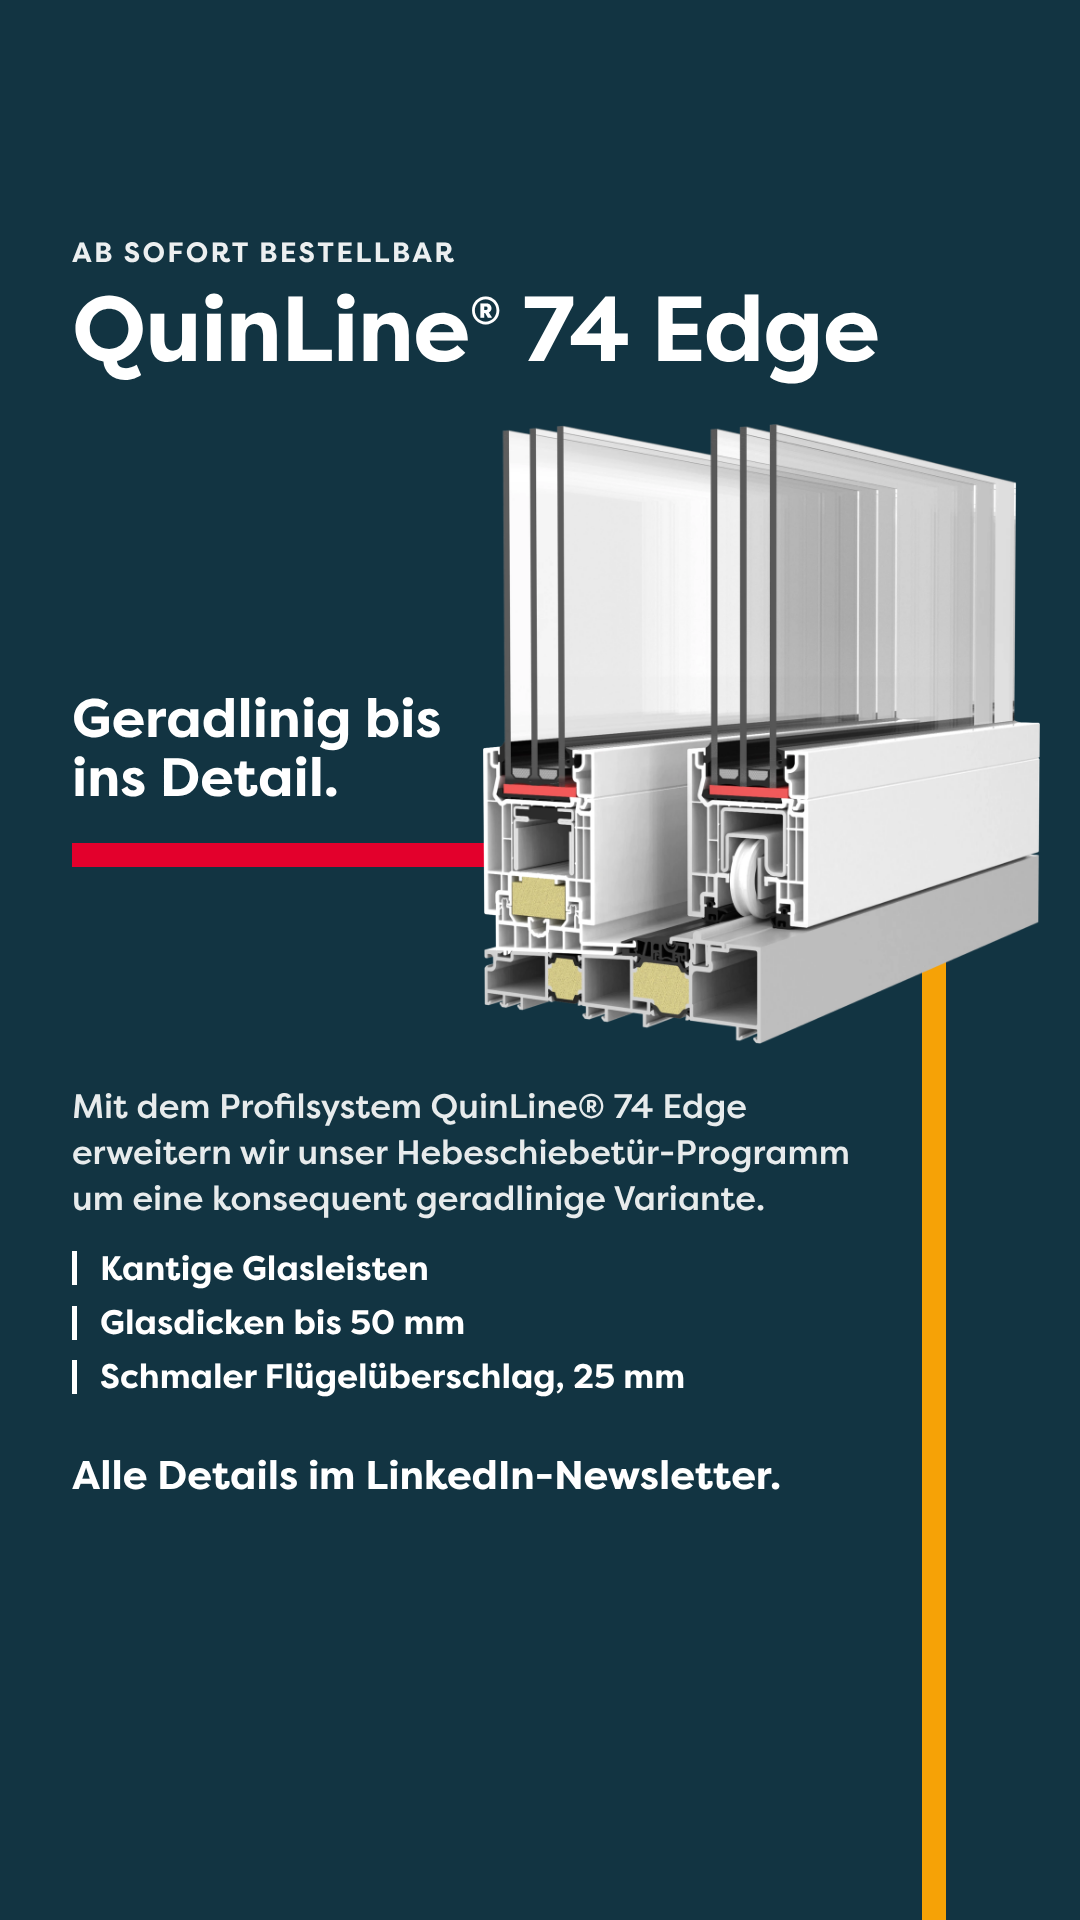
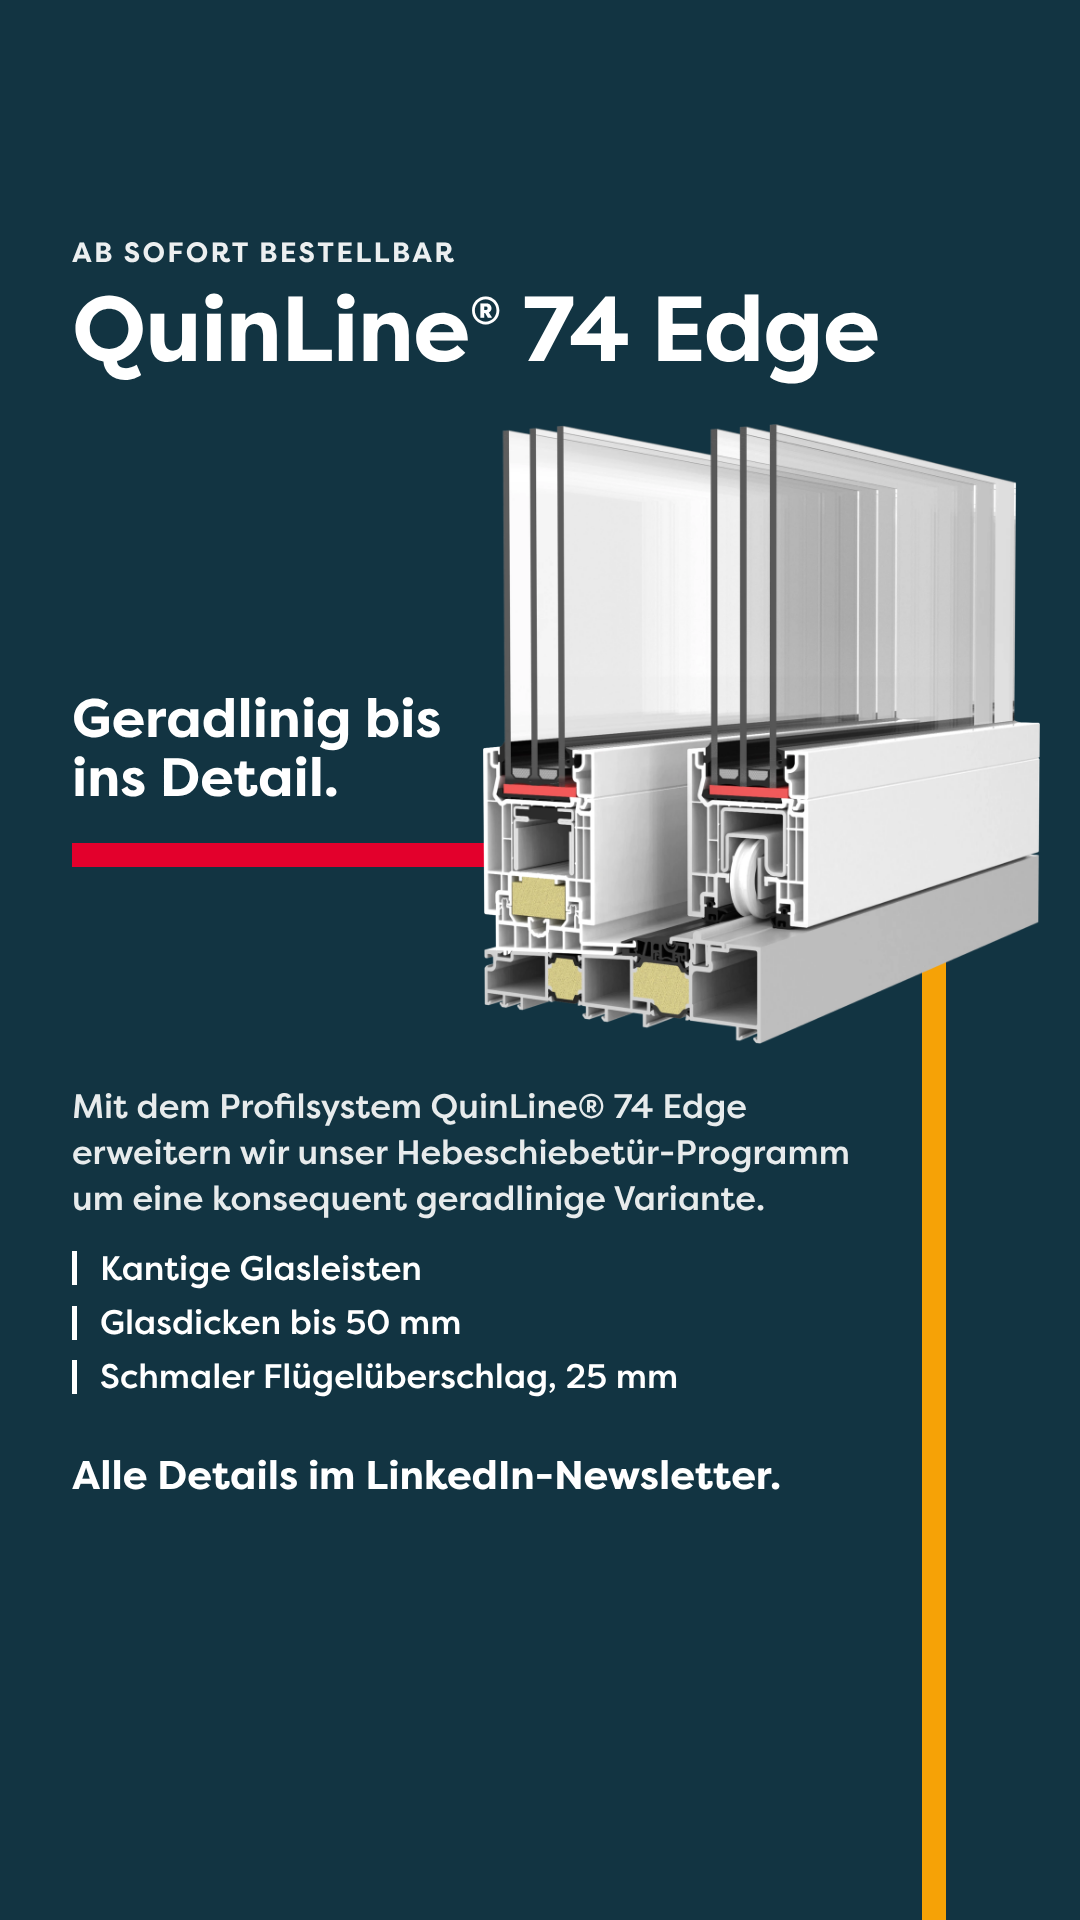
Instagram-Story Edge: Stichpunkte nicht fett
Claude-Session: https://claude.ai/code/session_01VKPZfVgBXYvpnS8mXiiVA7

Changed region(s): [[0.0917, 0.6562, 0.5194, 0.75], [0.5194, 0.6875, 0.6111, 0.75]]

diff --git a/projects/newsletter-ql74-edge/source/instagram-story.html b/projects/newsletter-ql74-edge/source/instagram-story.html
@@ -27,7 +27,7 @@ h1 sup{font-size:.42em;line-height:0;vertical-align:.95em;margin-left:.04em;lett
 .text{margin:0;font-weight:500;font-size:var(--copy);line-height:1.36;color:var(--soft)}
 .nobr{white-space:nowrap}
 ul{margin:24px 0 0;padding:0;list-style:none}
-li{position:relative;padding-left:28px;margin:0 0 10px;font-weight:700;font-size:var(--copy);line-height:1.3;color:var(--white)}
+li{position:relative;padding-left:28px;margin:0 0 10px;font-weight:500;font-size:var(--copy);line-height:1.3;color:var(--white)}
 li:last-child{margin-bottom:0}
 li::before{content:"";position:absolute;left:0;top:.14em;width:5px;height:1em;background:var(--white)}
 .cta{position:absolute;left:72px;top:1452px;font-weight:700;font-size:40px;line-height:1.2;white-space:nowrap}
